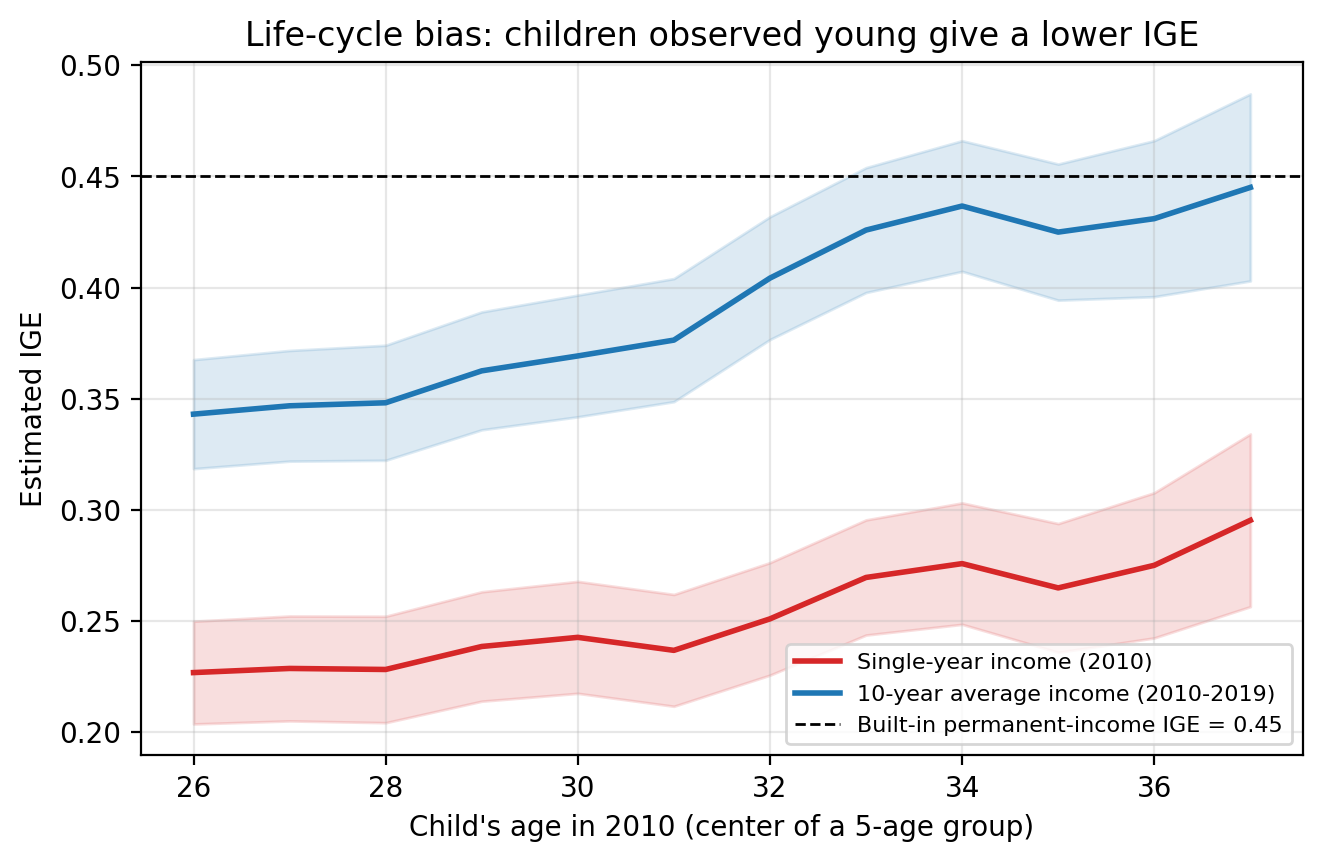
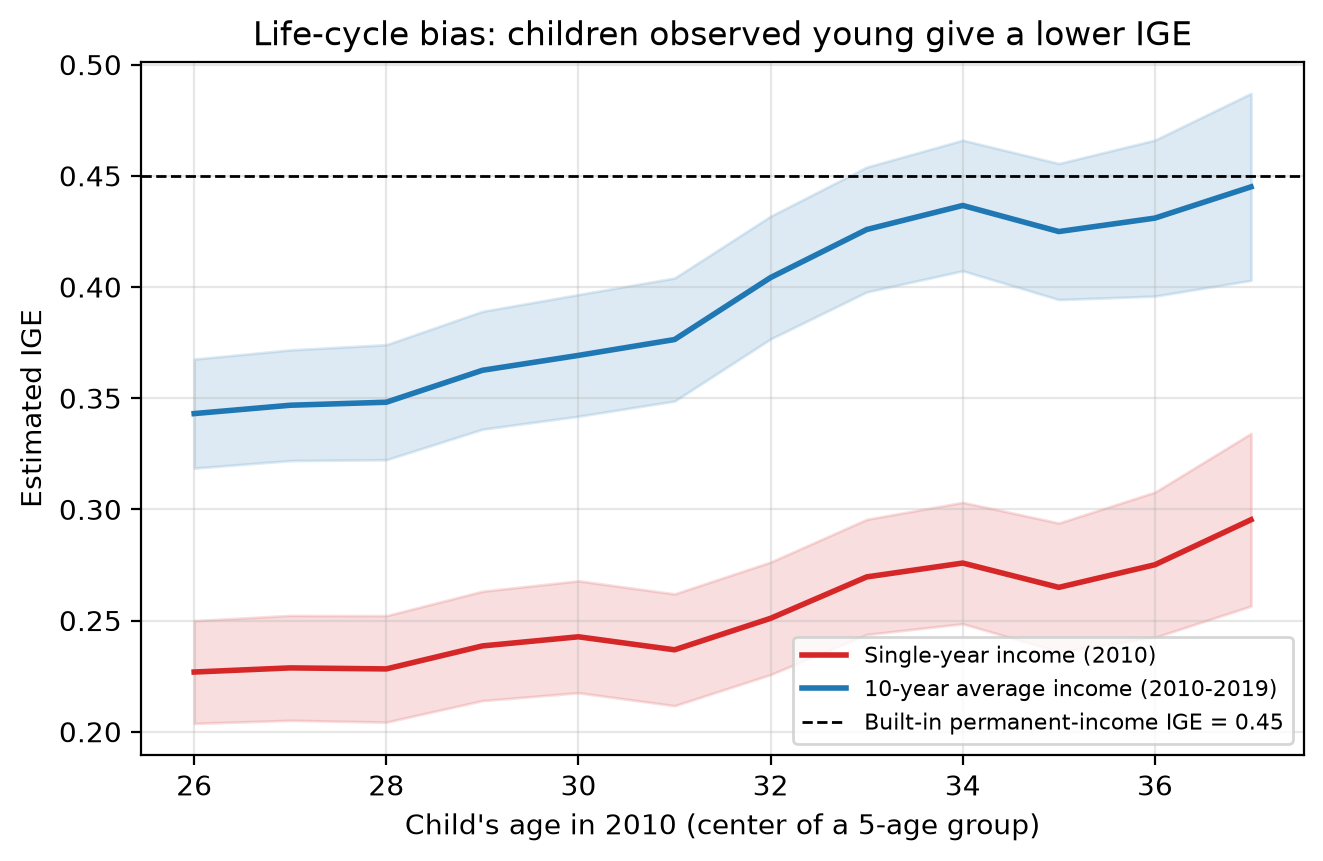
1

diff --git a/index.md b/index.md
@@ -12,7 +12,7 @@ Estimating it takes two steps that are easy to underrate. First, you need to **m
 
 This post is a tutorial: every SQL query below is in the repository and runs from Python, and you can follow along with basic Python and SQL knowledge.
 
-**A note on the data.** The real workhorse for this question is the Panel Study of Income Dynamics (PSID), but it requires registration and cannot be redistributed. I therefore **simulate a PSID-style dataset** with the same structure (an individual ID, a family ID, and annual earnings) and a known data-generating process. This has an advantage: since I know the true permanent-income elasticity built into the simulation (0.45), I can check how far each estimate is from the truth. The numbers below illustrate the method, not the actual US IGE. The code works unchanged on real data with the same columns (see the README).
+**A note on the data.** The real workhorse for this question is the Panel Study of Income Dynamics (PSID), but it requires registration and cannot be redistributed. I therefore **simulate a PSID-style dataset** with the same structure (an individual ID, a family ID, and annual earnings) and a known data-generating process. This has an advantage: since I know the permanent-income slope built into the simulation (0.455), I can check how far each estimate is from the truth. The numbers below illustrate the method, not the actual US IGE. The code works unchanged on real data with the same columns (see the README).
 
 ## The data
 
@@ -23,7 +23,7 @@ Two tables, as you would build from PSID files:
 | `person` | `person_id`, `origin_family_id`, `role`, `birth_year`, `sex` | one row per individual; `role` is `head`, `spouse`, or `offspring` in the childhood family |
 | `income` | `person_id`, `year`, `earnings` | one row per person-year |
 
-There are 29,981 people, 14,797 of them children, and about 292,000 person-year income records covering a short **10-year panel, 2010-2019**. Incomes are missing in some waves for children, as in a real panel.
+There are 29,981 people, 14,797 of them children, and 291,767 person-year income records covering a short **10-year panel, 2010-2019**. Incomes are missing in some waves for children, as in a real panel.
 
 A short panel changes the design in one useful way. Nobody is followed for decades, so the children we observe in 2010 are of **different ages** (born between 1970 and 1992, so aged roughly 18 to 40 in 2010). Comparing children of different ages in the same calendar year is how we will trace out life-cycle bias. Throughout, **2010 is the base year**: the "single-year" estimates use 2010 income, and the "multi-year" estimates average income over 2010 and the years after it. The identifier logic is the key idea: `person_id` identifies *an individual*, and `origin_family_id` identifies *the family unit they grew up in*, so a child and their parents share the second identifier but not the first.
 
@@ -87,7 +87,7 @@ LEFT JOIN person AS p
 WHERE  c.role = 'offspring' AND p.person_id IS NULL;
 ```
 
-Result: of 14,797 children, **14,056 match to at least one parent and 741 (5.0%) do not**. In real PSID data the loss is usually larger and not random (for example, children who left home early are harder to link), which matters for how representative the final sample is.
+Result: of 14,797 children, **14,056 (95.0%) match to at least one parent and 741 (5.0%) do not**. In real PSID data the loss is usually larger and not random (for example, children who left home early are harder to link), which matters for how representative the final sample is.
 
 ## Step 3: GROUP BY and aggregation
 
@@ -170,7 +170,7 @@ def estimate_ige(df):
 | 10-year average (2010-2019), children aged 35-39 | 0.445 | [0.403, 0.487] | 2,358 |
 | *Benchmark: permanent-income slope in the simulation* | *0.455* | | |
 
-The same data and the same method give estimates between **0.23 and 0.45**, depending only on which income measure we use. A researcher who used one year of income for children in their late twenties would conclude that the simulated country is about twice as mobile as a researcher who averaged ten years of income for children in their late thirties. Only the last row comes close to the benchmark.
+The same simulated data and regression method produce headline estimates from **0.229 to 0.445**, depending on the child's age at the 2010 baseline and the income measurement window. For children aged 25–29, the one-year estimate is 0.229 (95% CI: 0.205–0.252); for children aged 35–39, averaging income over 2010–2019 gives 0.445 (95% CI: 0.403–0.487). The latter is near the simulated permanent-income benchmark of **0.455**, whereas the former is roughly half as large. These specifications differ in both age group and averaging window, so Figures 1 and 2 below examine those dimensions more systematically.
 
 ## Life-cycle bias
 
@@ -187,42 +187,42 @@ where λ is how strongly permanent income shows up in income at the age we measu
 
 ### Evidence: the child's age at measurement
 
-Because the panel is short, we cannot follow one person from age 23 to 43. But we can compare children of different ages **in the same year**. Figure 1 estimates the IGE separately for groups of children aged 24-28, 25-29, ..., 35-39 in 2010 (labeled by the central age), once with single-year income and once with 10-year average income.
+Because the panel is short, we cannot follow one person from age 23 to 43. But we can compare children of different ages **in the same year**. Figure 1 estimates the IGE separately for overlapping five-year groups of children aged 24–28, 25–29, ..., 35–39 in 2010 (labeled by their central ages, 26 through 37), once with 2010 income and once with average income over 2010–2019 for both generations.
 
 ![IGE by child age](results/figures/fig1_ige_by_child_age.png)
 
-*Figure 1. IGE estimated for children of different ages in 2010. Shaded bands are 95% confidence intervals. The dashed line is the permanent-income elasticity built into the simulation.*
+*Figure 1. Estimated IGE by the central age of an overlapping five-year child-age group in 2010. Red: single-year income in 2010. Blue: average income in 2010–2019 for both generations. Shaded bands show approximate 95% confidence intervals; the dashed line marks the simulated permanent-income benchmark (0.455, displayed as 0.45 in the chart legend).*
 
-The red line (single-year income) rises from **0.23 for children centered at age 26 to 0.30 at age 37**. The estimate climbs just because the children we look at are older. This is life-cycle bias at work: a study using data on children in their twenties will understate how strongly income is passed on. The blue line, which averages ten years of income for both generations, shows the same pattern in a more dramatic form (0.34 at age 26, 0.445 at age 37), because even a ten-year window starting at 26 still covers early-career years when current income is a poor guide to lifetime income. It reaches the benchmark only for the oldest group, whose ten-year window sits closest to mid-career.
+The red line (single-year income) rises from **0.227** at central age 26 to **0.295** at central age 37, with modest fluctuations across intervening age groups. The blue line (ten-year averages for both generations) rises from **0.343** to **0.445** over the same age-group centers. The blue series is consistently above the red series: at age 26 the difference is about 0.116, and at age 37 it is about 0.150. For the oldest group, the ten-year estimate of 0.445 is close to the 0.455 simulation benchmark; its approximate 95% confidence interval is 0.403–0.487. These age-related patterns are consistent with life-cycle bias in this simulation, where younger workers' current earnings are a weaker proxy for permanent earnings.
 
-Two lessons follow. First, the **age gradient is the signature of life-cycle bias**: it would not exist if one year of income were a clean measure of long-run status. Second, even for the oldest group the red line stays far below 0.455. By then the age bias has mostly shrunk, so most of the remaining gap is attenuation from relying on a single noisy year. A note on the parents: in this design every head of household is between 48 and 64 in 2010, which is already past the age at which current income tracks permanent income closely. So the life-cycle problem in this tutorial comes from the *children's* side, which is also where it is usually most severe in real data, since children are often observed early in their careers.
+Two cautions matter. First, **the age gradient is consistent with the life-cycle mechanism**, but the graph alone cannot establish that age causes the differences: age groups in a ten-year panel also differ by birth cohort and potentially by sample composition. The simulated data-generating process is what gives the life-cycle interpretation here. Second, even for the oldest group the single-year estimate (0.295) remains substantially below 0.455, consistent with continuing attenuation from noisy annual income and potentially other measurement effects. The chart itself does not separately identify the contributions of those mechanisms. In this simulation, parents are observed later in their careers; the particularly important age variation is on the children's side.
 
 ## Why averaging over several years helps
 
 Averaging solves the attenuation problem directly. If transitory shocks are only partly correlated from year to year, they partly cancel when we average, while permanent income does not change. The noise-to-signal ratio in the regressor falls, and the slope moves back toward the truth. Averaging over a *range* of years also dampens life-cycle bias a little, because it mixes years when the age-earnings profile is steep with years when it is flatter, although it cannot fully remove it for children who start young (the blue line in Figure 1).
 
-Figure 2 isolates the attenuation channel. It uses children aged 35-39 in 2010 and averages both generations' income over more and more years, starting in 2010.
+Figure 2 holds the baseline child-age group fixed at 35–39 in 2010 and progressively lengthens the income averaging window for both generations, starting in 2010. This makes the pattern consistent with reduced transitory-income noise, though the sample and the ages covered by the measurement window also change.
 
 ![IGE by years averaged](results/figures/fig2_ige_by_years_averaged.png)
 
-*Figure 2. IGE as the number of averaged income years increases (children aged 35-39 in 2010).*
+*Figure 2. Estimated IGE against the number of income years averaged for both generations (children aged 35–39 in 2010). Error bars show approximate 95% confidence intervals; the dashed line is the 0.455 simulation benchmark (rounded to 0.45 in the chart).*
 
-| Years of income averaged | IGE |
-|---|---|
-| 1 | 0.295 |
-| 2 | 0.338 |
-| 3 | 0.365 |
-| 5 | 0.405 |
-| 7 | 0.429 |
-| 10 | 0.445 |
+| Years of income averaged | Estimated IGE | Robust SE | N |
+|---|---:|---:|---:|
+| 1 | 0.2953 | 0.0198 | 2,255 |
+| 2 | 0.3384 | 0.0210 | 2,373 |
+| 3 | 0.3652 | 0.0213 | 2,354 |
+| 5 | 0.4047 | 0.0214 | 2,319 |
+| 7 | 0.4288 | 0.0212 | 2,370 |
+| 10 | 0.4450 | 0.0214 | 2,358 |
 
-Going from one year to three raises the estimate by 0.07, and every additional year still helps, with gains getting smaller. Ten years brings the estimate to 0.445, close to the benchmark of 0.455 and well within its confidence interval. The practical rule from this and from the literature (Solon, 1992; Mazumder, 2005) is to average income over as many years as the data permit, and to measure people in mid-career, when income is closest to long-run level. Note the trade-off: in a short panel, longer averages require more years of observation per person, so the sample here shrinks to children who are observed in most years.
+The estimate rises from **0.2953** with one income year to **0.3652** with three years (an increase of 0.0699), then to **0.4450** with ten years (a total increase of 0.1497). The increments diminish as the window lengthens. The ten-year estimate is close to 0.455, and its approximate 95% confidence interval (0.403–0.487) includes that benchmark. This pattern is consistent with averaging reducing transitory-income noise, but it does not isolate measurement-error attenuation perfectly: the longer windows cover later ages and may change the set of people who meet the data requirements. Indeed, the sample size **does not shrink monotonically** in these results: N is 2,255 with one year and 2,358 with ten years, varying between 2,319 and 2,373 for the intermediate multi-year windows. The practical lesson, in line with Solon (1992) and Mazumder (2005), is to use well-motivated multi-year income measures and appropriate ages, while checking how each specification changes sample composition.
 
 ## Pitfalls and limitations
 
 - **Simulated data.** The patterns here follow from the data-generating process I chose, so the magnitudes (0.23, 0.30, and so on) should not be read as estimates of actual IGEs. The *direction* of the biases, however, matches what the literature documents for real data.
 - **Match selection.** 5.0% of children had no parent record. In real data, who is matched is rarely random.
-- **Constrained samples.** Requiring many years of data for both generations shrinks and reshapes the sample (here N falls from about 4,000 to about 2,300 for the oldest group of children).
+- **Changing samples.** Observation requirements, age groups, and positive-income restrictions can alter who enters each regression. Within the fixed 35–39 baseline-age comparison in Figure 2, N varies from 2,255 to 2,373 across specifications and is 2,358 in the ten-year case; it does not decrease monotonically.
 - **Zeros and logs.** Dropping non-positive incomes is common but has consequences, and averaging in levels versus logs gives different answers.
 - **Short panel.** With ten years of data we compare children of different ages in the same year rather than following people over their lives. That mixes age with birth cohort, so the age gradient in Figure 1 could partly reflect cohort differences in real data (in the simulation there are none).
 - **Family income versus individual earnings.** I used the sum of both parents' earnings for parents and individual earnings for children; other choices (household income, sons only, father-only) give different elasticities.
@@ -232,13 +232,23 @@ Going from one year to three raises the estimate by 0.07, and every additional y
 
 SQL does two jobs in this workflow. `JOIN` builds the link between generations from person and family identifiers, with a `LEFT JOIN` audit to show what the match loses. `GROUP BY` with `SUM`, `AVG`, and `HAVING` turns a person-year panel into one analysis row per child, whether we want a single year or an average over many. Both steps are explicit, reproducible, and easy to check, which is much harder when the match is buried in a long script of data-frame edits.
 
-The substantive lesson is that the IGE is only as good as the income measure behind it. With the same data and the same regression, the single-year estimate for children in their late twenties was 0.23, while a ten-year average for children in their late thirties gave 0.445, close to the 0.455 benchmark. Two distinct forces explain the gap: life-cycle bias, because lifetime earnings differences only show up in annual income later in life, and attenuation bias, because a single year is noisy. The first is addressed by measuring people at the right stage of life, and the second by averaging over several years. A researcher who ignores either will report a country as more mobile than it really is.
+The substantive lesson is that the measured IGE depends strongly on how and when income is observed. In these simulated data, the single-year estimate for children aged 25–29 is **0.229**, while the ten-year average for children aged 35–39 gives **0.445**, close to the **0.455** benchmark. Figure 1 shows higher estimates for older baseline-age groups, and Figure 2 shows higher estimates as more income years are averaged for a fixed baseline-age group. The patterns are consistent with both life-cycle effects and attenuation from noisy annual earnings, but these plots do not by themselves assign a precise share of the bias to each mechanism. Without attention to age, averaging windows, and sample composition, a study may misstate the degree of intergenerational income persistence.
 
 For readers doing their own work, the checklist is short: match on identifiers and audit the loss; build income measures in SQL with explicit age windows; average over as many years as possible; measure people in mid-career; and always plot the estimate against age at measurement (even in a short panel, by comparing age groups in the same year), because a visible slope is a warning that the single-year number is unreliable.
 
 ## Replication
 
-All code is in the repository; see `README.md`. Open `ige-sql.Rproj` in RStudio and run `source("code/run_all.R")` to regenerate every table and figure in this post.
+All code is in the repository; see `README.md`. In RStudio, open the project folder as an RStudio project (use **File → New Project → Existing Directory** if there is no `.Rproj` file), configure a Python environment with `pandas`, `numpy`, and `matplotlib`, then run `source("code/run_all.R")` from the project root. If using `reticulate`, you can point the runner at the configured Python first:
+
+```r
+library(reticulate)
+py_require(c("pandas", "numpy", "matplotlib"))
+python_path <- py_config()$python
+Sys.setenv(PYTHON = python_path)
+source("code/run_all.R")
+```
+
+The script regenerates the input simulation, SQLite tables, results CSVs, and both figures. The figures referenced above are `results/figures/fig1_ige_by_child_age.png` and `results/figures/fig2_ige_by_years_averaged.png`.
 
 ## References
 
